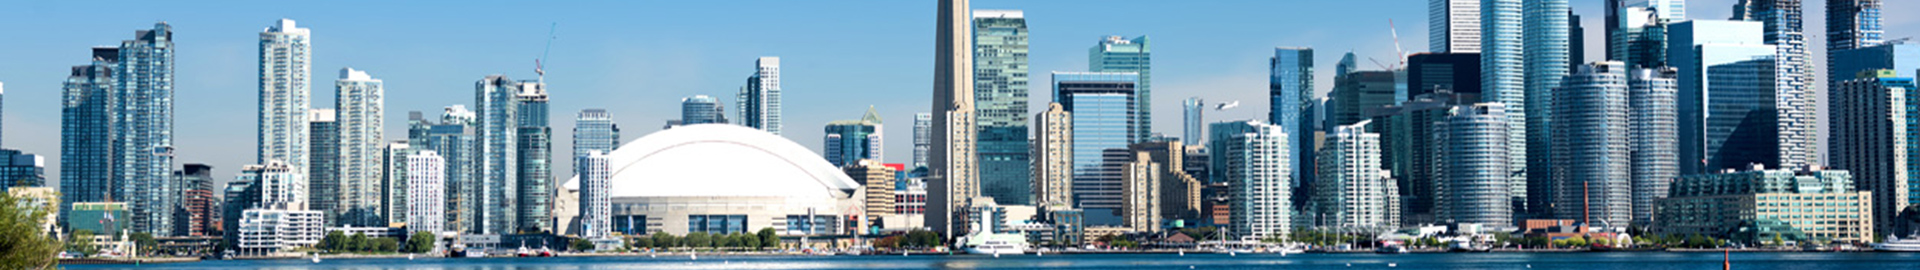
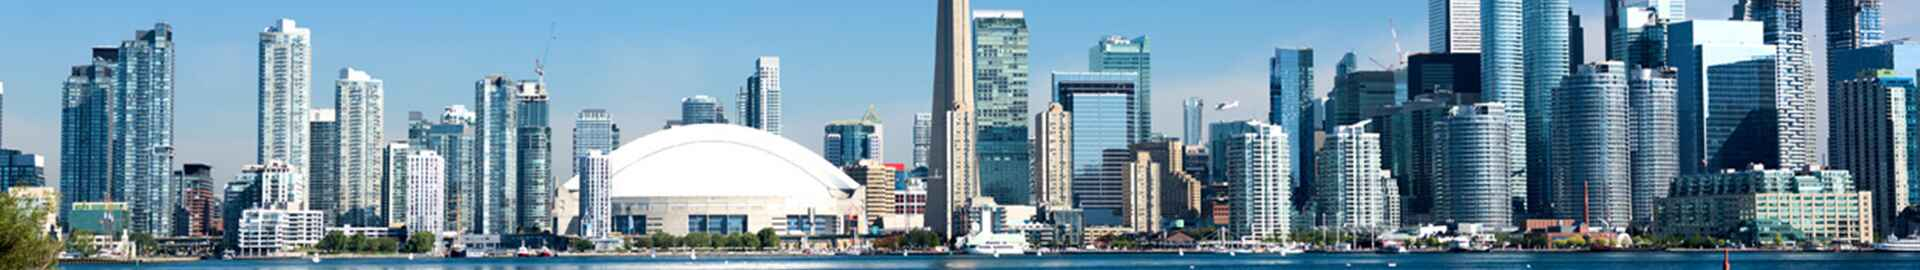
loading webp

diff --git a/index.html b/index.html
@@ -191,7 +191,7 @@
             <div class="banner-carousel owl-theme owl-carousel">
                 <!-- Slide 1 - Shipbuilding Focus -->
                 <div class="slide">
-                    <div class="image-layer" style="background-image:url(assets/images/slides/slide-v1-1.jpg)"></div>
+                    <div class="image-layer" style="background-image:url(assets/images/slides/slide-v1-1.webp)"></div>
                     <div class="auto-container">
                         <div class="content">
                             <h2>Reliable Shipbuilding<br> Workforce from Asia</h2>
@@ -204,7 +204,7 @@
 
                 <!-- Slide 2 - Construction Focus -->
                 <div class="slide">
-                    <div class="image-layer" style="background-image:url(assets/images/slides/slide-v1-2.jpg)"></div>
+                    <div class="image-layer" style="background-image:url(assets/images/slides/slide-v1-2.webp)"></div>
                     <div class="auto-container">
                         <div class="content">
                             <h2>Skilled Construction<br> Trades for Europe</h2>
@@ -217,7 +217,7 @@
 
                 <!-- Slide 3 - Truck & Trailer Drivers Focus -->
                 <div class="slide">
-                    <div class="image-layer" style="background-image:url(assets/images/slides/slide-v1-3.jpg)"></div>
+                    <div class="image-layer" style="background-image:url(assets/images/slides/slide-v1-3.webp)"></div>
                     <div class="auto-container">
                         <div class="content">
                             <h2>Experienced Truck & Trailer<br> Drivers Ready for Europe</h2>
@@ -330,7 +330,7 @@
                             <a href="shipbuilders.html">
                             <div class="img-holder">
                                 <div class="inner">
-                                    <img src="assets/images/workers/c1.jpg" style="height:250px" alt="Shipbuilding Workforce">
+                                    <img src="assets/images/workers/c1.webp" style="height:250px" alt="Shipbuilding Workforce">
                                     <div class="overlay-style-one bg1"></div>
                                 </div>
                                 <div class="icon"><span class="flaticon-technology"></span></div>
@@ -348,7 +348,7 @@
                             <a href="construction.html">
                             <div class="img-holder">
                                 <div class="inner">
-                                    <img src="assets/images/workers/c2.jpg" style="height:250px" alt="Construction Manpower">
+                                    <img src="assets/images/workers/c2.webp" style="height:250px" alt="Construction Manpower">
                                     <div class="overlay-style-one bg1"></div>
                                 </div>
                                 <div class="icon"><span class="flaticon-electronics"></span></div>
@@ -366,7 +366,7 @@
                             <a href="truckdrivers.html">
                             <div class="img-holder">
                                 <div class="inner">
-                                    <img src="assets/images/workers/c3.jpg" style="height:250px" alt="Truck & Trailer Drivers">
+                                    <img src="assets/images/workers/c3.webp" style="height:250px" alt="Truck & Trailer Drivers">
                                     <div class="overlay-style-one bg1"></div>
                                 </div>
                                 <div class="icon"><span class="flaticon-travel"></span></div>
